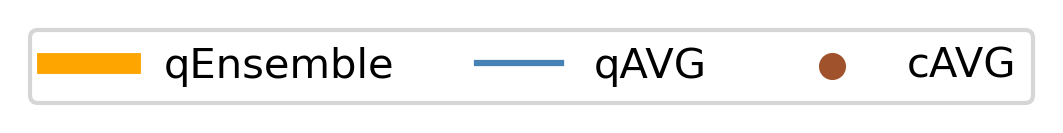
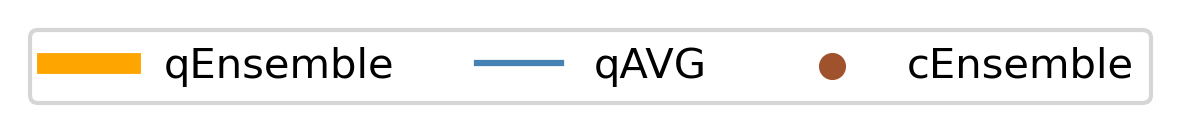
Convert notebook full experiments in python script. code to comment

Changed region(s): [[0.4036, 0.2105, 0.9934, 0.782], [0.0931, 0.3609, 0.3725, 0.6617], [0.0, 0.2406, 0.0621, 0.7519]]

diff --git a/run_all.py b/run_all.py
@@ -1,0 +1,93 @@
+from Utils import *
+create_dir('output')
+
+seed = 123
+np.random.seed(seed)
+
+runs = 20
+data = pd.DataFrame()
+
+for i in range(runs):
+    x1 = uniform(-10,10,2)
+    x2 = uniform(-10,10,2)
+    x_test = uniform(-10,10,2)
+
+    row = pd.Series(np.concatenate((x1, x2, x_test)))
+    data = data.append(row, ignore_index=True)
+
+data.columns = ['x11', 'x12', 'x21', 'x22', 'x1_test', 'x2_test']
+# data.to_csv('output/data.csv', index=False)
+# data = data.loc[18:21,:]
+data
+
+# Execution on real device
+IBMQ.load_account()
+provider = IBMQ.get_provider(hub='ibm-q')
+provider.backends()
+backend_16 = provider.get_backend('ibmq_16_melbourne')
+backend_5 = provider.get_backend('ibmq_rome')
+
+data_out = pd.DataFrame()
+i = 0
+for index, rows in data.iterrows():
+    # Extract data
+    x1 = np.array([rows.x11, rows.x12])
+    x2 = np.array([rows.x21, rows.x21])
+    x_test = np.array([rows.x1_test, rows.x2_test])
+
+    # Compute the average classically of classical swap test
+    cAVG = classic_ensemble(x1, x2, x_test)
+
+    # Swap test using x1 as training on simulator
+    qc_x1 = quantum_swap_test(x1, x_test)
+    m1 = exec_simulator(qc_x1)
+    r1 = retrieve_proba(m1)
+
+    # Swap test using x2 as training on simulator
+    qc_x2 = quantum_swap_test(x2, x_test)
+    m2 = exec_simulator(qc_x2)
+    r2 = retrieve_proba(m2)
+
+    # Compute the average classically
+    r_avg = np.mean([r1[0], r2[0]])
+
+    # Compute the average using quantum ensemble algorithm on simulator
+    qc = quantum_ensemble(x1, x2, x_test)
+    r = exec_simulator(qc)
+    r_ens = retrieve_proba(r)
+
+    # Using real devices
+
+    # Swap test using x1 as training on real device
+    qc_x1_real = quantum_swap_test(x1, x_test)
+    r_x1_real = run_real_device(qc_x1_real, backend_5)
+    r1_rl = retrieve_proba(r_x1_real)
+
+    # Swap test using x2 as training on real device
+    qc_x2_real = quantum_swap_test(x2, x_test)
+    r_x2_real = run_real_device(qc_x2_real, backend_5)
+    r2_rl = retrieve_proba(r_x2_real)
+
+    # Compute the average classically
+    r_avg_real = np.mean([r1_rl[0], r2_rl[0]])
+
+    # Compute the average using quantum ensemble algorithm on real device
+    qc = quantum_ensemble(x1, x2, x_test)
+    qc = transpile(qc, basis_gates=['u1', 'u2', 'u3', 'cx'], optimization_level=3)
+
+    r_ens_real = run_real_device(qc, backend_16)
+    r_ens_rl = retrieve_proba(r_ens_real)
+
+    row = [cAVG, r1[0], r2[0], r_avg, r_ens[0], r1_rl[0], r2_rl[0], r_avg_real, r_ens_rl[0]]
+
+    row = pd.Series(row)
+
+    print(i)
+    i = i + 1
+
+    data_out = data_out.append(row, ignore_index=True)
+
+data_out.columns = ['cAVG', 'qx1_sim', 'qx2_sim', 'qAVG_sim', 'qEns_sim',
+                    'qx1_real', 'qx2_real', 'qAVG_real', 'qEns_real']
+
+data_out.to_csv('output/data_out_final.csv', index=False)

diff --git a/Visualization.py b/Visualization.py
@@ -14,14 +14,18 @@ p0_clas = data_out.cAVG
 
 ax.plot(x, p0_ens, color='orange', label='qEnsemble', zorder=1, linewidth=5)
 ax.plot(x, p0_avg, color='steelblue', label='qAVG')
-ax.scatter(x, p0_clas, label='cAVG', color='sienna', zorder=2, linewidth=.5)
+ax.scatter(x, p0_clas, label='cEnsemble', color='sienna', zorder=2, linewidth=.5)
 
 #ax.set_xlim(-1.1, 1.1)
 # ax.set_ylim(-.2, 1.05)
 ax.grid(alpha=0.3)
-#ax.set_xticks(np.round(np.arange(-1, 1.1, .4), 1).tolist())
-#ax.set_title('Comparison', size=14)
-ax.tick_params(labelsize=12)
+ax.set_xticks(np.round(np.arange(0, 21, 5), 1).tolist())
+ax.set_xlabel('runs')
+ax.set_ylabel(r'Prob. of state $0$ ($target$ qubit)')
+
+
+ax.set_title('Quantum Simulator', size=12)
+ax.tick_params(labelsize=10)
 
 
 avg = data_out.qAVG_real
@@ -32,22 +36,24 @@ clas = data_out.cAVG
 
 ax1.plot(x, ens, color='orange', label='qEnsemble', zorder=1, linewidth=5)
 ax1.plot(x, avg, color='steelblue', label='qAVG')
-ax1.scatter(x, clas, label='cAVG', color='sienna', zorder=2, linewidth=.5)
+ax1.scatter(x, clas, label='cEnsemble', color='sienna', zorder=2, linewidth=.5)
 
 #ax.set_xlim(-1.1, 1.1)
 # ax.set_ylim(-.2, 1.05)
 ax1.grid(alpha=0.3)
-#ax.set_xticks(np.round(np.arange(-1, 1.1, .4), 1).tolist())
-#ax.set_title('Comparison', size=14)
-ax1.tick_params(labelsize=12)
+ax1.set_xticks(np.round(np.arange(0, 21, 5), 1).tolist())
+ax1.set_title('Real Device', size=12)
+ax1.tick_params(labelsize=10)
+ax1.set_xlabel('runs')
+
 # plt.legend(loc='lower center',# bbox_to_anchor=(0.5, -.15),
 #           ncol=3, fancybox=True, shadow=True, fontsize = 12)
 # handles, labels = ax.get_legend_handles_labels()
 # lgd=fig.legend(handles, labels, loc='lower center', ncol=3, bbox_to_anchor=(0.4, -.025))
 
-plt.savefig('output/experiments.png', dpi = 300, bbox_extra_artists=(lgd,), bbox_inches='tight')
+plt.savefig('output/experiments.png', dpi = 300, bbox_inches='tight')
 plt.show()
-plt.close()
+# plt.close()
 
 
 fig = plt.figure(figsize=(6, 1))
